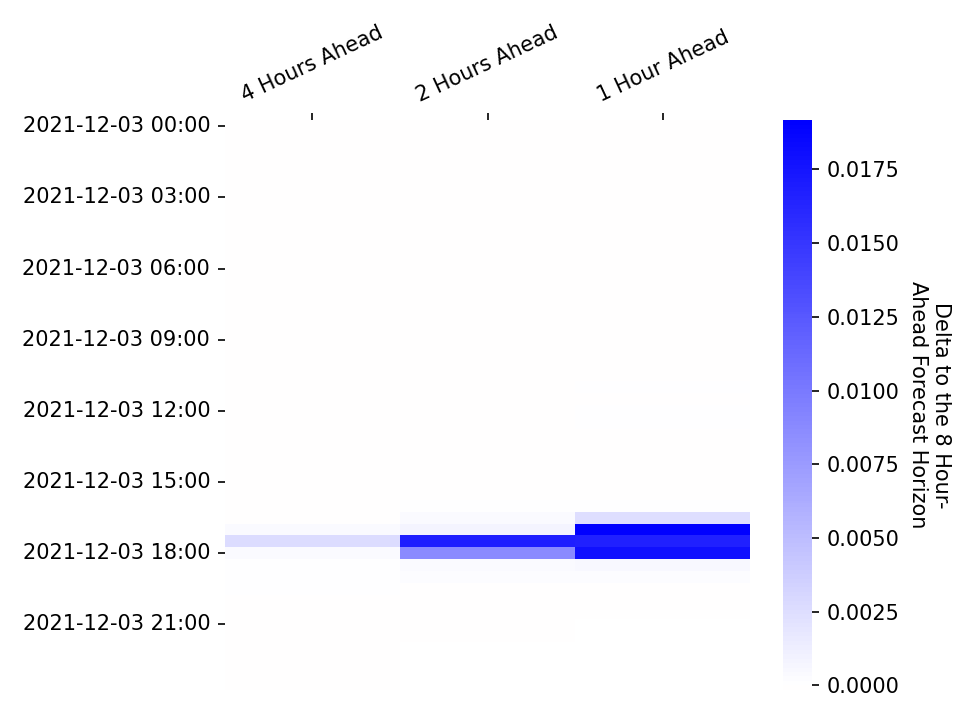
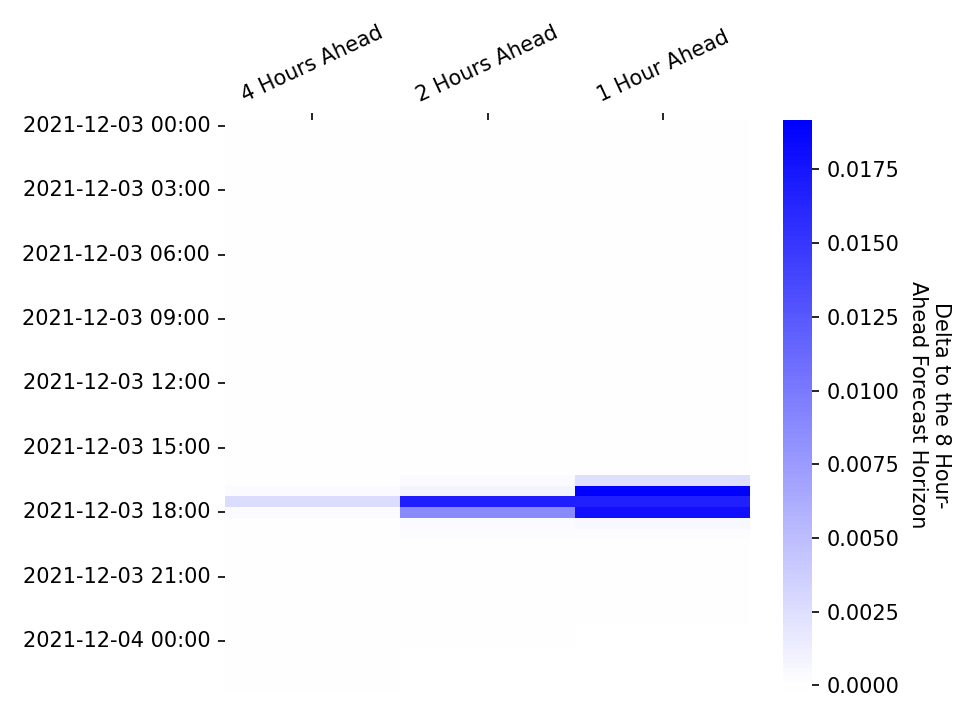
Apply automatic changes

diff --git a/docs/js/map.js b/docs/js/map.js
@@ -144,7 +144,7 @@ document.addEventListener("DOMContentLoaded", function() {
                 follow: 1
             });
             mymap.addControl(sliderControl);
-            sliderControl.startSlider(334);
+            sliderControl.startSlider(335);
         });
     });
 });

diff --git a/docs/visualisations.md b/docs/visualisations.md
@@ -60,7 +60,7 @@ In each settlement period the system operator publishes the de-rated margin fore
 * At 1200 hours on each calendar day for all Settlement Periods for which Gate Closure has not yet passed and which occur within the current Operational Day or the following Operational Day; and
 * At eight, four, two and one hour(s) prior to the beginning of the Settlement Period to which the De-Rated Margin Forecast relates.
 
-These figures will be updated on an hourly basis, the last update was at: 2021-12-03 22:15
+These figures will be updated on an hourly basis, the last update was at: 2021-12-03 22:40
 
 <br>
 
@@ -83,7 +83,7 @@ The following heatmap shows how the more recent de-rated margin forecasts deviat
 
 ### Power Output Map
 
-Last Updated: 2021-12-03 22:15
+Last Updated: 2021-12-03 22:40
 
 This map shows the power output of individual plants connected to the transmission grid as stated in their most recent Physical Notifications. This data can be retrieved through the *PHYBMDATA* BMRS stream, the out-turn data can be viewed one week later through the *B1610* stream. The scrollbar at the top of the map can be used to view how the generation sources have changed their output over the last week, the layer control can be used to toggle on/off the transmission network, and the plants themselves can be clicked to reveal additional information. The plant location data used in this map has been taking from a sister project, [the Power Station Dictionary](https://osuked.github.io/Power-Station-Dictionary/), which aims to link between data about individual power plants.
 
